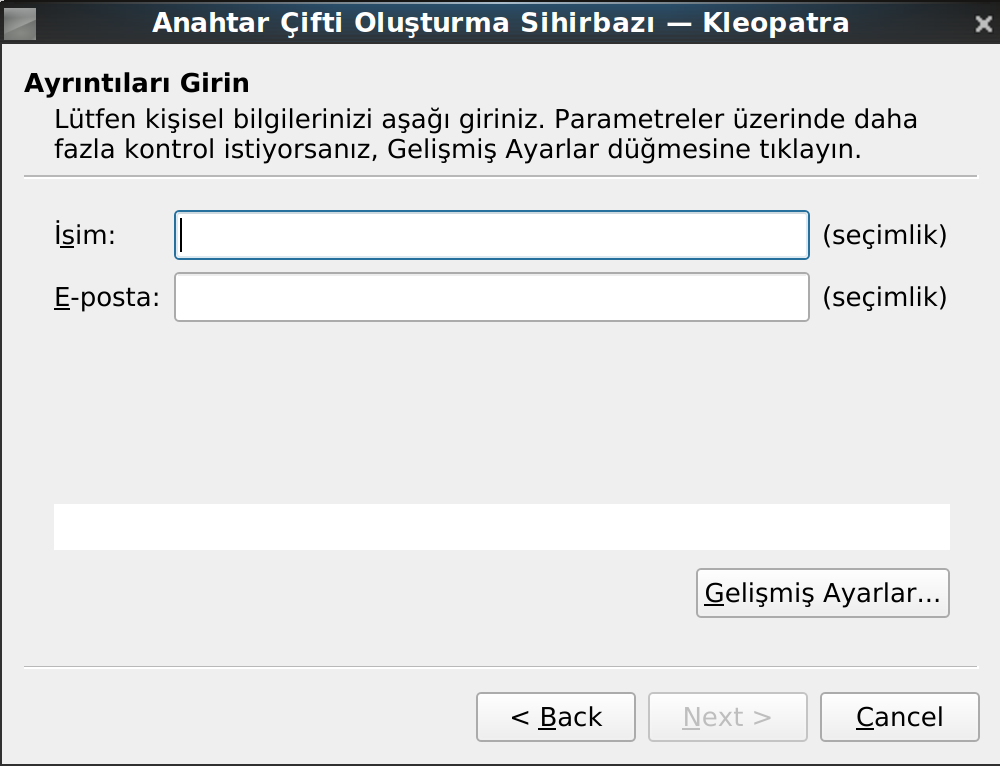
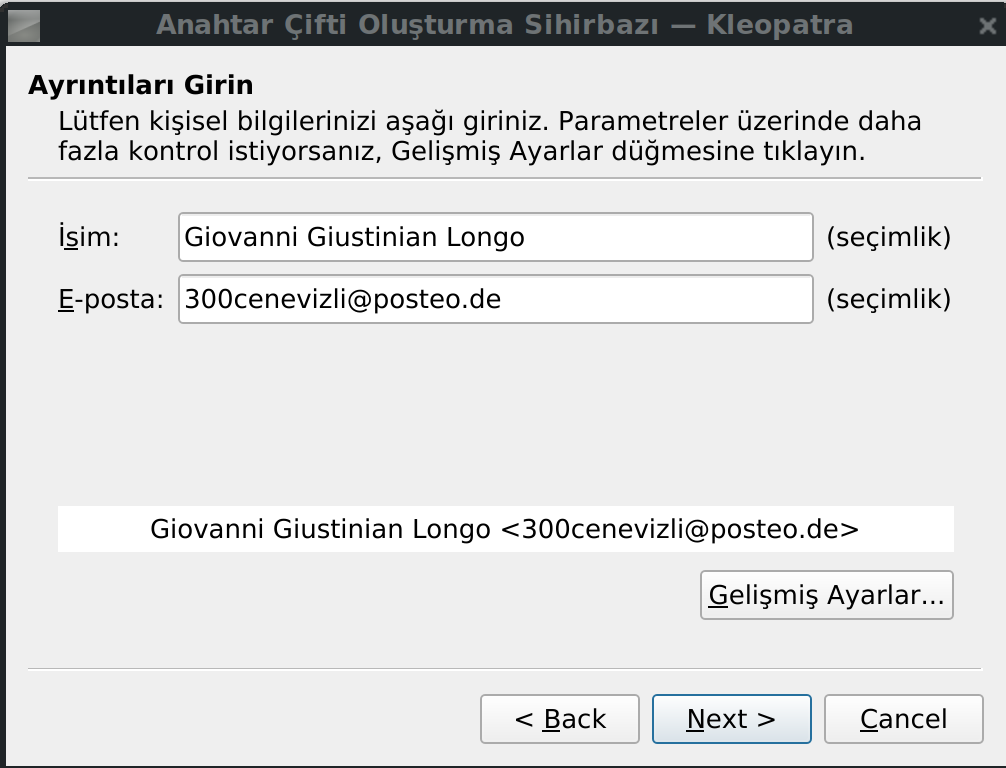
yazılara ilgili ekran görüntüleri eklendi hizmet olarak şifreli e-posta yazısı eklendi.

diff --git a/src/yazisma_guvenligi/sifreli-eposta-hizmetleri.md b/src/yazisma_guvenligi/sifreli-eposta-hizmetleri.md
@@ -1,0 +1,84 @@
+# Şifreli E-posta Hizmetleri
+
+Snowden'in kamuya açıkladığı gerçeklerden sonra şifreli e-posta hizmetleri fazlasıyla tartışılmış ve konuşulmuştur. Özellikle [Lavabit'in](https://en.wikipedia.org/wiki/Lavabit) muhtemelen [FBI](https://www.fbi.gov/) baskısı sebebi ile kapatılmasından sonra benzer şifreli e-posta hizmetlerine ilişkin merak ve tartışma daha da arttı. Bunun bir ihtiyaç olarak gören kimi kimseler çeşitli "şifreli e-posta" hizmeti vermeye başlamıştır.
+
+## Şifreli E-posta Hizmeti Nedir
+
+Öncelikle "şifreli" veya "güvenli" e-postanın ne olmadığından söz etmek gerekir. Herhangi bir yazışmanın "mahrem" veya "güvenli" sayılabilmesi için şifrelemenin [uçtan uca(end-to-end)](https://en.wikipedia.org/wiki/End-to-end_encryption) olması gereklidir. Bu koşulun gerçekten oluşmasının tek imkanı tarafların şifreleme anahtarlarını kendi cihazlarında üretmeleri ve ellerinde bulundurmalarıdır. Aracı olarak hizmet sunan şifreli e-posta hizmet sağlayıcısının şifreleme işlemine müdahil olduğu her durumda **güvenin** bir kısmı hizmet sağlayıcıya aktarılmış olur.
+
+Kabaca şifreli e-posta hizmetleri uygulama bakımından ikiye ayrılabilir; taraflar arasındaki iletişimin uçtan uca şifrelenebildiği cins ile sadece gelen e-postaların gelen kutusunda şifreli saklandığı cins olarak.
+
+## Şifreli Gelen Kutusu
+
+Pek çok mahremiyet yanlısı e-posta sağlayıcısı, arayüzleri aracılığı ile gelen e-postaların şifrelenerek gelen kutusuna kaydedilmesine imkan vermektedir. Söz konusu şifreleme genellikle kendi sunucularında kullanıcı adına üretilen bir GPG anahtarı ile yapmaktadırlar. Bu yöntemin iki adet faydası bulunmaktadır;
+
+* Bir sebepten e-postalar veya e-posta hesabı kaybedilirse, şifreli olduklarından dolayı ifşa olmaları mümkün olmayacaktır.
+
+* E-posta hizmet sağlayıcısı bir devlet tarafından kullanıcıları hakkında bilgi vermeye zorlanırsa şirket şifrelenmiş veriden ve üstveriden başka teslim edebileceği bir şey olmayacaktır. 
+
+İki de düşünülmesi gereken zararı bulunmaktadır;
+
+* Doğal olarak gelen e-postalar vardıklarında şifresiz olduklarından ne hizmet sağlayıcısının ne de kendisinden bilgi talep eden devletlerin kaydedilip şifrelenmeden önce bu e-postaları okumasına engel olan bir durum yoktur.
+
+* E-postalarınız şifreli saklanacağından, cihazlarınızda yerel olarak GPG kurulu ve hizmet sağlayıcınızın ürettiği gizli anahtar elinizde değil ise postalarınızı okumak için size sunulan webmail arayüzüne mahkum kalırsınız.
+
+Tüm anlatılanlar bir yana bu şekilde yapılan şifrelemeden __herhangi bir anlamda__ **güvenlik** veya **mahremiyet** beklememek yerinde olacaktır.
+
+Pek çok hizmet sağlayıcı olmakla birlikte aşağıdakiler söz konusu imkanı sağlayan en tanınmış şirketlerdir;
+
+mailbox.org
+posteo.de
+fastmail.com?
+...
+
+## Uçtan Uca Şifreli E-posta
+
+Uçtan uca şifreli e-posta hizmeti veren şirketler her kullanıcısı için üyelik sırasında bir anahtar oluşturmakta ve bu anahtar aracılığı ile çoğunlukla sadece kendi üyeleri arasındaki yazışmaları şifreleyebilmektedir. Hizmet sağlayıcının dışındaki e-posta kullanıcılarına bir parola ile şifrelenmiş e-posta atabilmek mümkün olsa da bu standart olarak sağlanmamakta ve olağan kullanım için fazlasıyla zahmetli olmaktadır. Bu hizmetler ile;
+
+* Aynı hizmet sağlayıcıyı kullanan veya parola ile şifrelenerek diğer e-posta kullanıcılarına yapılan yazışmalar hizmet sağlayıcı tarafından da okunamadığı iddia edilmektedir.
+
+* Devletlerden gelen taleplere şirketlerin sağlayabileceği sadece üstveri ve anahtarın şifreli hali olmaktadır.
+
+Her ne kadar anahtarın üretimi ve hizmetin kullanımı için gereken yazılımların "özgür" ve tarayıcıda yerel olarak çalıştığı söylense de her giriş yaptığınızda tayacınıza yüklenen javascript kodunun doğruluğunu denetleme imkanının olmayışı ve her halukarda şifreli de olsa gizli anahtarınızın şirketin sunucusuna yüklenmesi [bruteforce](...) saldırılara imkan vermesi tatsız sonuçlardır. Sayılan sebepler ile belirli bir güvenin hizmet sağlayana aktarıldığı ve bu **güvenin haksız çıkması** ihtimalinin değerlendirilmesi önemlidir.
+
+Uçtan uca şifreli e-posta hizmeti veren en tanınmış iki isim [Tutanota](https://tutanota.com) ve [Protonmail](https://protonmail.com) idir. Benzer hizmetler vermelerine rağmen bu amaçla kullandıkları teknolojiler ve yaklaşımlar bir hayli farklıdır.
+
+### Tutanota vs Protonmail
+
+#### Bedava Üyelik
+
+Protonmail de Tutanota da giriş seviyesi temel güvenlik özelliklerinin sunulduğu bedava hesaplar vermekte. Bu bakımdan şayet ihtiyaçlarınız sınırlı ve bütçeniz dar ise iki hizmet sağlayıcıdan da bedava hizmet almanız mümkün
+
+#### Anonim Üyelik ve Ödeme
+
+Teoride her iki şirket de anonim üyelik veriyor ve cryptoparalar ile ödeme kabul ediyor fakat Protonmail pratik olarak anonim üyeliği daha zor kılıyor. Muhtemelen boşuna açılan bedava hesaplar azaltmak adına bir çaba olsa da güvenlik ihtiyacının bir parçası olabilecek anonimliği bozan bu çabanın iyi olmasığı kesin.
+
+#### Fiyat
+
+Protonmail'in gün itibari ile en ucuz ücretli üyeliği 4 Avro/aylık olmakla ayda 1 Avro'ya hizmet veren Tutanotaya göre 4 kat daha pahalı durumdalar. Protonmail bunu nükleer sığınaklarının maliyetine ve İsviçre'de bulunmalarına bağlamakta. Tutanota is Almanya'da çeşitli veri merkezlerinde bulunmakta. Fiyatlandırma konusundaki inandırıcılık kullanıcıya kalmış durumda.
+
+#### Platform Yaygınlığı
+
+Her iki hizmet de Gnu/Linux dahil olmak üzere tüm platformlarda istemci bulunduruyor. Lakin Protonmail SMTP protokolü ile yerel e-posta istemcilerinin kullanılabilmesi için bir köprü yazılımı da geliştirmiş durumda. Böylece isteyenler Thunderbird gibi kendi e-posta istemcileri ile Protonmail'i kullanabilmekte. Tutanota ise sadece webmail ve kendi istemcileri ile kullanıma imkan veriyor.
+
+#### Yazılım Özgürlüğü
+
+Protonmail ile Tutanota'nın en büyük ayrılıklarından biri burada ortaya çıkıyor. Protonmail yazılım özgürlüğü konusunda verdiği sözleri zamanında tutamamakta. Şu anda sadece webmail yazılımı özgür olmakla, diğer tüm platformlar için olan yazılımları mülk konumunda bulunuyor. Tutanota ise tam tersine tüm yazılımlarını özgür geliştirmekte ve Android istemcisi [F-droid'den](https://f-droid.org) bile indirilebiliyor. [Hatta özgür yazılıma özgür yazılım diyen nadir şirketlerden biri](https://tutanota.com/blog/posts/desktop-clients/)
+
+#### Şifreleme Teknolojileri
+
+Protonmail ile Tutanota arasındaki en önemli farklardan bir tanesi kullandıkları şifreleme teknolojilerinin farklılığından gelmekte. Protonmail uzun zamandır e-posta şifreleme için kullanılan GnuPG yazılımı üzerine kurulu bir sistem. Tutanota ise simetrik şifreleme algoritması olan AES128 ile asimetrik RSA2048 algoritmasının bir birleşimini kullanmakta. Algoritmaların geçmişi ve güvenliği bakımından hiç bir fark olmamakla hizmetin özgürlüğü açısından çok önemli pratik bir fark ortaya koymakta bu durum.
+
+#### Hizmet Özgürlüğü
+
+Muhtemelen Tutanota ve Protonmail arasındaki en önemli fark hizmetlerinin özgürlüğü. Tutanota şifreleme imkanını doğal olarak sadece kendi kullanıcıları arasında sağlayabilmekte ve federatif e-posta sisteminde ayrı bir [walled garden](https://www.fsf.org/blogs/community/iphone) olarak bulunmakta. Dışarıdan bir kullanıcının şifreli olarak Tutanota kullanıcısına e-posta atması şu an itibari ile mümkün değil fakat [GPG uyumluluğu üzerine çalışacaklarına dair bir açıklamaları bulunmakta.](https://www.reddit.com/r/tutanota/comments/9blzp4/support_for_pgpgpg/)
+
+Protonmail ise GPG ile çalışmakta ve yakın zamanda kendi kullanıcılarının GPG anahtarlarının indirilebileceği [anahtar sunucularını](hkps://api.protonmail.ch) devreye almış durumdalar. Hala Android ve IOS istemcilerinden hizmet sağlayıcılar arası şifreleme konusunda sorun çekilse de webmail üzerinden yapılan yazışmalarda gelen e-posta GPG ile şifreli ise Protonmail doğrudan anahtarı indirip cevapları şifreli olarak gönderebiliyor. Bu bakımdan Protonmail dışı kişilerle şifreli yazışmak gün itibari ile mümkün ve görece kolay.
+
+Aynı zamanda SMTP ve POP3 gibi federatif e-posta protokolleri iki hizmet tarafından da doğrudan desteklenmemekte. Sadece Protonmail [kendi köprü yazılımları](https://protonmail.com/bridge/) ile buna imkan vermekte. Bu yazılım gün itibari ile özgür olmadığından ve Gnu/Linux paketi hala beta aşamasında bulunduğundan hala tam bir özellik olarak sayılması zor.
+
+# Sonuç
+
+Şifreli e-postayı bir hizmet olarak almak tercih sayılabilir. Kendi sunucunuzu ile e-posta işletmek ve GPG kullanmak hiç bu kadar kolay olmamıştı. Hali ile şifreli yazışmak, bunu güvenli şekilde yapmak ve anahtarınızı kendi elinizde tutmanın güvenini hissetmek için hala en iyi seçenek GPG'yi kendi yerel cihazınızda tercih ettiğiniz güvenilir bir e-posta hizmet sağlayıcı ile kullanmaktır.
+
+[GPG anahtarı oluşturmak ve kullanmak için rehberimizden yararlanabilirsiniz.](https://guvenlik.oyd.org.tr/yazisma_guvenligi/openpgp.html)

diff --git a/src/yazisma_guvenligi/gpg/gpg-kurulumu/gpg-kurulumu.md b/src/yazisma_guvenligi/gpg/gpg-kurulumu/gpg-kurulumu.md
@@ -14,15 +14,25 @@ RPM: `sudo yum install kleopatra`
 
 * Kurulum tamamlandıktan sonra Kleopatrayı dilediğiniz şekilde çalıştırın ve anahtarların listelendiği alan ile birlikte Kleopatra sizi karşılayacak.
 
+![alt-text](kleopatra1.png "Kleopatra ana ekranı")
+
 * İlk anahtarınızı üretmek için "File/Dosya" menüsüne tıklayıp "New key pair/Yeni anahtar çifti" seçeneğine tıklayıp anahtar üretme işlemine başlayın. Açılan menüden "Kişisel OpenPGP anahtar çifti üret seçeneğini tıklayıp" devam edin.
+
+![alt-text](kleopatra2.png "Anahtar Çifti Oluşturma Ekranı")
 
 * Kleopatra size isminizi ve e-posta adresinizi soracaktır. Burada doğru bilgiler vermek zorunda değilsiniz. __Lakin__ GPG insanların kimliklerini oluşturmak ve buna güven duyulmasını sağlamak amacı ile kullanılmaktadır. Bu anahtar sizin kimliğinizi ve sizi tanıyan insanların size güvenmesi demek olacağından bu anahtarla yapacağınız işlemlerin size ait olduğunu kanıtlamanızı sağlar. Bu sebep ile gerçek bilgiler kullanmanızı öneririz. **Her halde** dilediğiniz bu bilgileri değiştirmenize engel olan bir durum yok.
 
+![alt-text](kleopatra3.png "ID Bilgilerinin Girimi")
+
 * 'Gelişmiş Ayarlar' tıklandığında üretilecek anahtarınıza ilişkin bir takım teknik veriler karşınıza çıkacaktır. "Anahtar Malzemesi" olarak garipçe çevrilmiş bölümde kullanılacak anahtarın tipi ve boyutu girilmekte. RSA standart olmakla anahtar boyutunu en yüksek olan **4096** bit'e yükseltmeniz anahtarınızın geleceği için **hararetle** tavsiye edilir. Şayet anahtarınız ile [SSH](https://en.wikipedia.org/wiki/Secure_Shell) kullanma arzunuz varsa şu aşamada "Yetkilendirme/Authentication" kutusunu işaretleyerek devam edebilirsiniz. Geçerlilik süresi ise anahtarınızı kaybetmeniz durumunda belirli bir tarihten sonra anahtarınızın kendiliğinden kullanılmaz olmasını sağlar. O tarih geldiğinde anahtarınızı tekrar yenileyebilirsiniz. Tercihen **2-3** yıl seçmeniz önerilir.
+
+![alt-text](kleopatra4.png "Anahtar Özellikleri")
 
 * "Oluştur" düğmesine bastığınızda Kleopatra size parola soracaktır. Bu parola anahtarınızın şifrelenmesi için kullanılacak olup **tüm anahtarınızın güvenliğinden sorumludur.** Hali ile burada bir [**zarola**](https://zarola.oyd.org.tr) kullanmanız **hararetle tavsiye edilir.**
 
 * Parolanızı girmenizin ertesinde, cihazınızın kapasitesine ve [rastgelelik](https://en.wikipedia.org/wiki/Randomness) kaynağına bağlı olarak birkaç dakika alabilir. Bundan sonra anahtarınız hazırlanmış olacaktır.
+
+![alt-text](kleopatra5.png "Sonuç Ekranı")
 
 * Bu aşamada anahtarınızın yedeğini alabilir ve [anahtar yönetimi](guvenlik.oyd.org.tr/anahtar-yonetimi) tavsiyelerimize göre anahtarınızın yedeğini alabilirsiniz.
 
@@ -36,13 +46,21 @@ Android işletim sistemlerinde GPG kullanmak neredeyse diğer tüm imkanlardan d
 
 * Android mobil işletim sistemleri için [OpenKeychain](https://openkeychain.org) yazılımını [F-droid](https://f-droid.org] reposundan veya özgür olmayan bir başka repodan indirerek telefonunuza kurun.
 
-* OpenKeychain sizi şirin asmakilit karakteri ile karşılayacak ve anahtar kullanımı için seçenekler sunacaktır. Buradan "Anahtarımı oluştur" seçeneğini seçerek ilerleyin
+* OpenKeychain sizi şirin asmakilit karakteri ile karşılayacak ve anahtar kullanımı için seçenekler sunacaktır. Buradan "Anahtarımı oluştur" seçeneğini seçerek ilerleyin.
+
+![alt-text](openkeychain1.png "OpenKeychain Karşılama Ekranı")
 
 * OpenKeychain size adınızı veya rumuzunuzu soracaktır. Burada doğru bilgiler vermek zorunda değilsiniz. __Lakin__ GPG insanların kimliklerini oluşturmak ve buna güven duyulmasını sağlamak amacı ile kullanılmaktadır. Bu anahtar sizin kimliğinizi ve sizi tanıyan insanların size güvenmesi demek olacağından bu anahtarla yapacağınız işlemlerin size ait olduğunu kanıtlamanızı sağlar. Bu sebep ile gerçek bilgiler kullanmanızı öneririz. **Her halde** dilediğiniz bu bilgileri değiştirmenize engel olan bir durum yok.
 
+![alt-text](openkeychain2.png "İsim Girişi")
+
 * Bir sonraki aşamada OpenKeychain sizden e-posta adresinizi ve varsa başkaca e-posta adreslerinizi girmenize imkan verecektir. Buraya GPG anahtarınızı kullanmak istediğiniz e-posta adreslerini girin. Gerekirse ileride yenilerini ekleyebilir veya çıkartabilirsiniz.
 
+![alt-text](openkeychain3.png "E-posta Girişi")
+
 * Anahtarınızı oluşturmadan önce, isminiz ve e-postanızın gösterildiği aşamada anahtarınızı "Anahtar sunucusuna gönder" "Publish on keyserver" seçeneği görülecektir. Şayet anahtarınızı e-posta yazışması için kullanılmasını istiyorsanız bu seçeneği işaretleyerek devam edebilirsiniz.
+
+![alt-text](openkeychain4.png "Anahtar Oluşturma")
 
 __ÖNEMLİ NOT__ Anahtar sunucusuna yüklediğiniz anahtarlar **SONSUZA** kadar sunucularda kalacaktır. Bu bakımdan anahtarınızı kullanacağınızdan ve/veya anahtarı iptal etmek için gerekenlere sahip olduğunuzdan emin olmadan anahtarı sunuculara göndermeyin. Gizli anahtara ve parolasına veya bir iptal sertifikasına sahip değilseniz sunucudaki anahtarlar son kullanma tarihine kadar geçerli kalır.
 
@@ -50,6 +68,13 @@ __ÖNEMLİ NOT__ Anahtar sunucusuna yüklediğiniz anahtarlar **SONSUZA** kadar 
 **Parola** OpenKeychain üretilen anahtarlara bir parola ile korumamaktadır. Bu sebepten bir [**zarola**](https://zarola.oyd.org.tr) ile anahtarınızı şifrelemenizi öneririz.
 **Alt Anahtarlar** OpenKeychain standart olarak en yüksek güvenlikteki anahtar boyutu olan 4096 bit kullanmamakta. Bunu şifreleme hızı için yapsa da uzun vadede kullanacağınız anahtarlarınızın boyutunun 4096 bit olması uzun vadede faydalı olabilir. Dilerseniz bu aşamada SSH gibi yetkilendirme sistemlerinde kullanılmak üzere başkaca bir alt anahtar daha ekleyebilirsiniz.
 
+![alt-text](openkeychain7.png "Gelişmiş Anahtar Ayarları")
+
 * Anahtar oluştur düğmesine tıklayarak anahtarınızı oluşturmaya başlayabilirsiniz. Cihazınız gerekli sihirli işlemleri yaptıktan sonra OpenKeychain'in ana sayfasında kişisel anahtarınız ile karşılaşacaksınız.
 
+![alt-text](openkeychain5.png)
+![alt-text](openkeychain6.png)
+
 Tebrikler artık kullanılabilir bir GPG anahtarınız var! Artık hem e-postalarınızı hem de dosyalarınızı şifreleyebileceğiniz dünyaca güvenilen bir yazılımı kullanabilir konumdasınız. Bu bilgiyi çevrenizle paylaşın ve onların da kendi anahtarlarını üretip sizinle iletişime geçebilmesine yardımcı olun.
+
+

diff --git a/src/yazisma_guvenligi/Signal/signal.md b/src/yazisma_guvenligi/Signal/signal.md
@@ -38,6 +38,9 @@ Flatpak kullananlar dağıtımlarından bağımsız olarak Signal masaüstü ist
 
 ** Signal'i kullandığınız kişiler ile anahtarlarınızı doğrulamazsanız şifrelemenin güvenliğini ciddi miktarda zayıflatmış olursunuz. Bu tip saldırılar hem [devletler tarafından](https://yro.slashdot.org/story/18/11/07/2156241/police-decrypt-258000-messages-after-breaking-pricey-ironchat-crypto-app) hem de kötücül amaçlı bireyler tarafından gerçekleştirilebilmekte. Konuşma penceresinde kişi ismine tıkladıktan sonra açılan menünün en altında "Güvenlik numarasını görüntüle" bölümündeki numaraları **SIGNAL HARİCİ** bir kanaldan doğrulayabilir. Yanyana iken gösterilen karekodu taratarak doğrulama yapabilirsiniz.
 
+![alt-text](signal1.png)
+![alt-text](signal2.png)
+
 ** Sesli aramalarınızı da Signal aracılığı ile yapabilirsiniz. Bu size olağan aramalara göre çok daha yüksek mahremiyet sağlayacaktır. Çevreniz ile kullanmanız önerilir. Bazı kullanıcılar VPN ile signal kullanırken ses bağlantı sorunları yaşayabilmektedir.
 
 ** Signal ve geliştiriciliğini yapan [Open Whisper Systems](https://signal.org/) pek özgürlük taraftarı değiltir. Moxie Merlinspike, özgür olan signal'in Google servisleri içermeyen [LibreSignal forkunu yasal tehditler](https://github.com/LibreSignal/LibreSignal/issues/37#issuecomment-217211165) ile ortadan kaldırmıştır. Hali ile Signal bir gün kullanıcılarına sırtını dönerse Signal'i kendi sunucunuz ile kullanmak için çokça çaba harcamanız ve bağlantılarınızı kaybetmeniz olasıdır.
